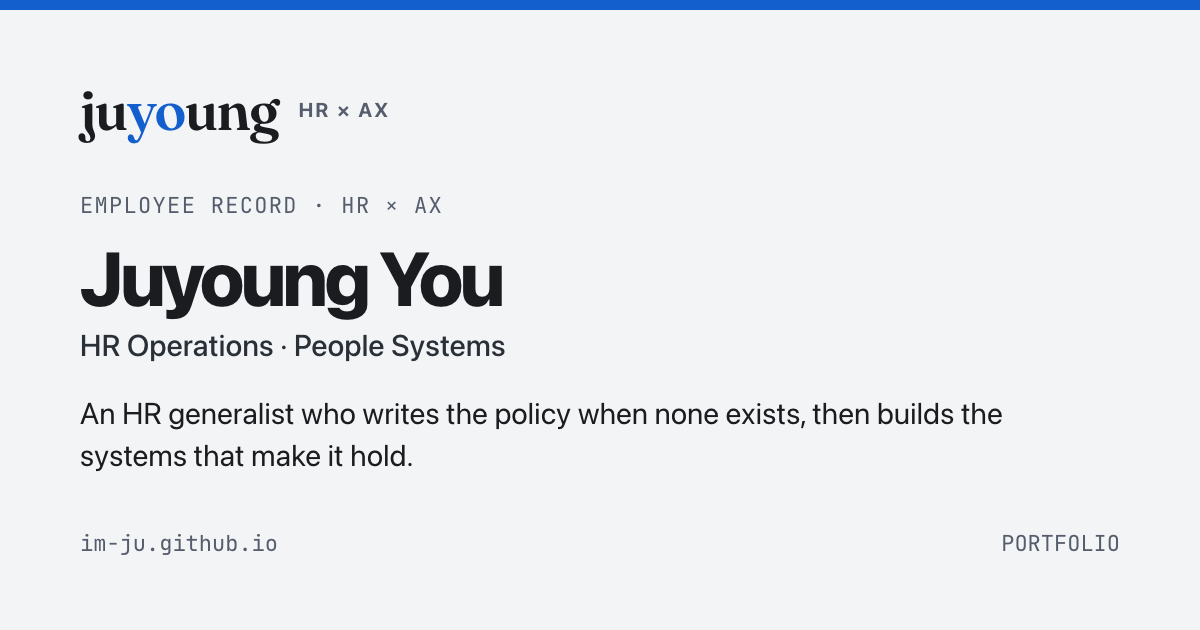
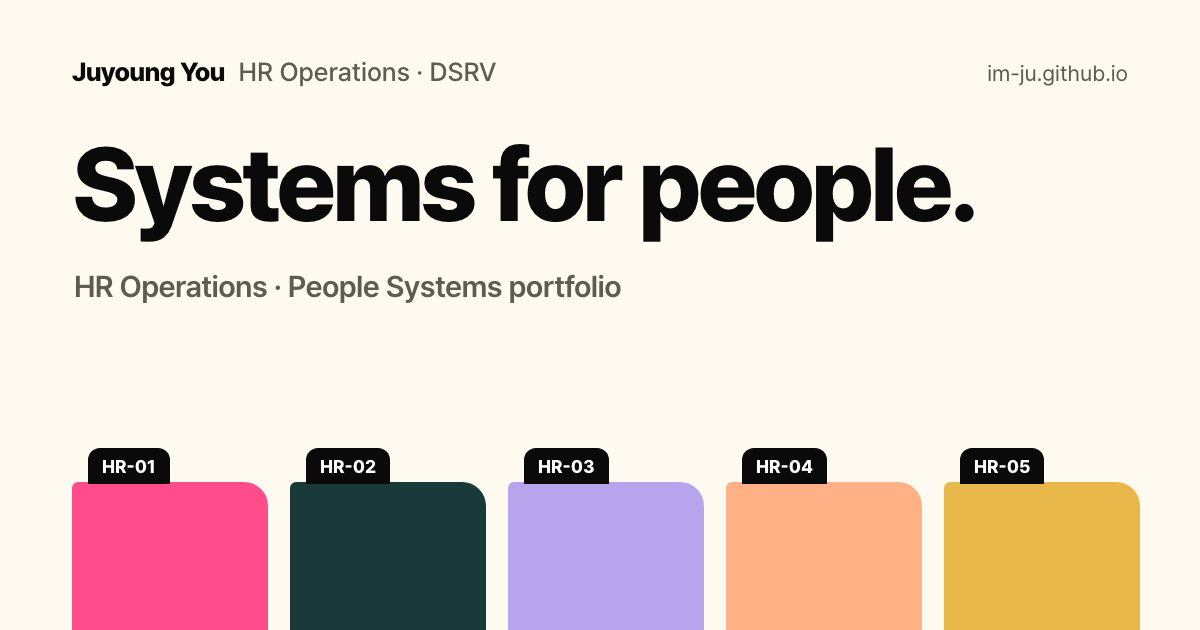
English plain copy, HR/GA Hub mock screen, new link previews
- EN home now has the same plain one-liners, IN/DO/OUT flow and
  problem/solution/result as KO (src/data/cases.ts), plus short principles.
- HR-01 sheet: mock app screen drawn only from the six published features,
  with made-up names and no amounts; labelled as not the real screen.
- Link-preview images redrawn in the new look (Pretendard, clay folders).
- Detail pages: file number/category/status under the title, icon arrows,
  stack in the body face. 404: drop the console label, align to the grid.

diff --git a/src/data/cases.ts b/src/data/cases.ts
@@ -1,20 +1,23 @@
 // Plain-language copy for the home page's case files (HR-01 … HR-08).
 // Kept out of src/content/projects because scripts/import-projects.mjs overwrites those files.
 // Array order = file number on the home page. `id` must match a file name in src/content/projects.
-// Facts here may only restate what the full write-ups already publish (confirmed 2026-10-07).
-// English plain copy is not written yet: /en/ shows titleEn + summaryEn from the content collection.
+// Facts here may only restate what the full write-ups already publish (KO confirmed 2026-10-07;
+// EN follows the wording of src/content/projects-en, added 2026-10-08).
 
-export interface Case {
-  id: string;
+interface Copy {
   title: string;    // ← EDIT: folder headline (plain words)
-  name: string;     // short project name shown on the sheet header
-  cat: string;      // folder category label
-  catEn: string;
   line: string;     // one-line summary (always visible)
   flow: [string, string, string]; // what came in / what it does / what comes out
   problem: string;
   solution: string;
   result: string;
+}
+export interface Case extends Copy {
+  id: string;
+  name: string;     // short project name shown on the sheet header (KO; EN uses titleEn)
+  cat: string;      // category label
+  catEn: string;
+  en: Copy;
 }
 
 export const CASES: Case[] = [
@@ -29,6 +32,14 @@ export const CASES: Case[] = [
     problem: '인사총무 업무가 캘린더, 별도 웹앱, 구글시트, 엑셀 네 곳에 흩어져 있었습니다. 매달 같은 일을 손으로 다시 했고, 숫자가 틀려도 아무도 알아채지 못했습니다.',
     solution: '회사 Google 계정으로 로그인하는 웹앱 하나로 합쳤습니다. 회의실 현황, 사내 이벤트 조 편성, 구성원 디렉토리, 제휴식당, 자기계발비, 근속 알림까지 6개 기능이 들어 있습니다.',
     result: '5개월째 멈춤 없이 운영 중입니다. 사내 앱은 2개에서 1개로 줄었고, 자동 테스트 978개가 모두 통과합니다.',
+    en: {
+      title: "Scattered internal tools, now one",
+      line: "Meeting rooms, company events, the training allowance: tools and spreadsheets that lived in different places are now one web app you sign into with your company account.",
+      flow: ["Calendar · a separate web app · Google Sheets · Excel", "One web app behind the company account", "6 features"],
+      problem: "HR and general-affairs work was spread across four places: a calendar, a separate web app, Google Sheets and Excel. The same work was redone by hand every month, and when a number was wrong, nobody noticed.",
+      solution: "I merged them into one web app that you sign into with your company Google account. It has six features: meeting-room status, team draws for company events, a member directory, partner restaurants, the training allowance and work-anniversary alerts.",
+      result: "In production for five months with no unplanned downtime. Two internal apps became one, and all 978 automated tests pass.",
+    },
   },
   {
     id: 'meal-allowance',
@@ -41,6 +52,14 @@ export const CASES: Case[] = [
     problem: '식대는 먼저 지급하고 나중에 자격을 확인합니다. 식권 사용 내역과 근태 기록을 사람마다, 날짜마다 눈으로 맞추느라 매달 하루에서 이틀이 걸렸고, 한 건을 놓쳐도 드러나지 않았습니다.',
     solution: '복리후생·지출 규정의 지원 요건을 조항 단위로 규칙으로 옮기고 두 데이터를 자동으로 대조합니다. 판정할 수 없는 건은 그냥 통과시키지 않고 별도 확인 목록으로 모읍니다.',
     result: '5개월째 매달 실행 중입니다. 확인은 몇 분, 예외 확인까지 30분 안팎이면 끝납니다. 결과는 실제 급여 차감에 쓰이고, 당사자에게 보여줄 차감 사유 문장까지 만들어집니다.',
+    en: {
+      title: "Meal-allowance checks: from two days to minutes",
+      line: "Matching meal-card usage against attendance records used to be done by eye. Now rules taken from the regulation do the matching automatically.",
+      flow: ["Meal-card usage + attendance records", "Automatic check, clause by clause", "Deduction reasons · manual-review list"],
+      problem: "The meal allowance is paid first and eligibility is checked afterwards. Matching meal-card usage against attendance, person by person and date by date, took one to two days every month, and a single miss never surfaced.",
+      solution: "I turned the eligibility requirements in the benefits and expense regulations into rules, clause by clause, and the two data sets are now compared automatically. Cases the rules cannot decide are not waved through; they go to a separate review list.",
+      result: "Run every month for five months. The check takes minutes, and about 30 minutes including the exceptions. The results feed actual payroll deductions, and each one comes with a sentence explaining the deduction to the person concerned.",
+    },
   },
   {
     id: 'interview-reminder',
@@ -53,6 +72,14 @@ export const CASES: Case[] = [
     problem: '면접 전날 후보자에게 장소, 시간, 준비물을 안내하는 메일을 보냅니다. 면접 유형마다 양식이 다르고, 바쁜 날일수록 빠뜨리기 쉬웠습니다. 빠뜨리면 후보자 경험이 바로 나빠집니다.',
     solution: '매일 아침 공유 캘린더에서 다음 날 면접을 찾아 유형에 맞는 양식으로 Gmail 초안을 만듭니다. 발송은 자동화하지 않았습니다. 한 번 보낸 메일은 되돌릴 수 없기 때문입니다.',
     result: '담당자에게 남은 일은 초안을 확인하고 보내기를 누르는 것뿐입니다. 읽지 못한 일정은 경고로 요약 메일에 올리고, 같은 초안이 두 번 만들어지지 않게 막았습니다.',
+    en: {
+      title: "Interview reminders that never get missed",
+      line: "It finds tomorrow's interviews in the calendar and prepares a reminder draft for each interview type. The send button is left to a person, on purpose.",
+      flow: ["Tomorrow's interviews in the shared calendar", "Identify the type · pick the template", "Gmail draft (a person sends it)"],
+      problem: "The day before an interview, the candidate gets an email with the location, the time and what to bring. Each interview type has its own template, and on busy days it was easy to miss one. A missed email hurts the candidate experience right away.",
+      solution: "Every morning it finds the next day's interviews in the shared calendar and creates a Gmail draft from the right template. Sending is not automated, because an email cannot be taken back once it is sent.",
+      result: "All that is left for the coordinator is to check the draft and press send. Events it cannot read are flagged as warnings in a summary email, and the same draft is never created twice.",
+    },
   },
   {
     id: 'benefits-audit',
@@ -65,6 +92,14 @@ export const CASES: Case[] = [
     problem: '자기계발비는 월·연 한도와 지원 항목이 정해진 제도인데, 운영은 구글시트로 하고 있었습니다. 표끼리 이름과 팀명으로만 이어져 있어서 동명이인이 있거나 팀명이 한 글자만 달라도 숫자가 조용히 틀어졌고, 틀렸는지 아무도 알 수 없었습니다.',
     solution: '시트를 읽기만 하는 감사 도구를 만들었습니다. 규정에서 가져온 8가지 기준(동명이인, 한도 초과, 팀명 불일치, 날짜 오류 등)으로 검사하고, 문제가 있는 행과 이유를 심각도와 함께 별도 탭에 적습니다. 원본은 고치지 않습니다. 여러 사람이 매일 쓰는 문서를 스크립트가 몰래 고치면 아무도 그 시트를 믿을 수 없기 때문입니다.',
     result: '드러난 건 몇 건의 실수가 아니라 시트라는 방식의 한계였습니다. 동명이인 문제는 시트로는 풀 수 없고 사람마다 고유번호가 필요했습니다. 이 진단을 근거로 자기계발비 관리를 사내 웹앱(HR/GA Hub)으로 옮겼습니다.',
+    en: {
+      title: "An audit tool that finds numbers that don't add up",
+      line: "It finds numbers that disagree with each other in a training allowance run on Google Sheets. It never changes a single cell, and its findings became the case for moving to the web app.",
+      flow: ["Training-allowance Google Sheet (3 tables)", "8 regulation-based checks · read-only", "Problem rows · reasons · severity"],
+      problem: "The training allowance has monthly and yearly limits and a fixed list of eligible items, but it was run on Google Sheets. The tables were linked only by names and team names, so two people with the same name, or a team name off by one character, quietly broke the numbers, and nobody could tell.",
+      solution: "I built an audit tool that only reads the sheet. It applies eight checks taken from the regulation (same-name people, limits exceeded, team-name mismatches, unreadable dates and more) and writes each problem row, its reason and its severity to a separate tab. It never edits the source: a script silently fixing a document that many people edit every day would leave nobody able to trust it.",
+      result: "What it exposed was not a handful of mistakes but the limit of the spreadsheet itself. Same-name people cannot be told apart in a sheet; each person needs a unique ID. On the strength of that diagnosis, the training allowance moved into the internal web app (HR/GA Hub).",
+    },
   },
   {
     id: 'access-log',
@@ -77,6 +112,14 @@ export const CASES: Case[] = [
     problem: '근태 시스템은 출근과 퇴근만 기록합니다. 근무 중 장시간 자리를 비운 실태를 알려면 출입문 기록을 봐야 했는데, 그대로 세면 잠깐 나갔다 온 기록, 나간 것처럼 보이지만 실제로는 건물 안에 있던 경우까지 전부 외출로 잡혔습니다. 결과가 특정인을 가리키는 목록이라, 잘못 잡힌 한 건이 곧 한 사람에 대한 근거 없는 의심이 됩니다.',
     solution: '5분 안에 다시 들어온 기록은 지우고 60분이 넘는 외출만 남겼습니다. 남은 건마다 같은 시간에 건물 안 다른 출입문을 지난 기록이 있는지 다시 확인해, 있으면 목록에서 뺐습니다. 몇 분부터 외출로 볼지는 회사가 정할 기준이라, 기준값을 한곳에 모아 실행할 때마다 보여주게 했습니다.',
     result: '2026년 1~3월 석 달 치를 분석해 월별 보고서 3건과 통합 보고서 1건을 냈습니다. 목록 이름은 "위반자 명단"이 아니라 "확인이 필요한 건"으로 붙였습니다. 출입 기록은 이유를 담지 않기 때문에, 도구는 확인할 대상을 좁힐 뿐 판단은 사람이 합니다.',
+    en: {
+      title: "Attendance analysis that doesn't point at the wrong person",
+      line: "The attendance system doesn't record time away during the workday, so I looked at door access logs. Because the output points at specific people, most of the effort went into filtering out false hits.",
+      flow: ["Door access logs (three months)", "Drop short exits · keep 60+ minutes · drop if still inside", "\"Needs checking\" list"],
+      problem: "The attendance system records only clock-in and clock-out. Long absences during the day show up only in the door access logs, but counted as-is they flagged everything: a quick step outside, and even people who looked as if they had left but were still inside the building. The output points at individuals, so one wrong hit is an unfounded suspicion about one person.",
+      solution: "Re-entries within 5 minutes are discarded and only absences over 60 minutes are kept. For each remaining case it checks whether the same person passed another door inside the building during that time, and drops the case if so. How many minutes count as an absence is a company decision, so the thresholds sit in one place and are printed on every run.",
+      result: "It covered three months, January to March 2026, producing three monthly reports and one combined report. The list is titled \"needs checking\", not \"violators\". Access logs carry no reasons, so the tool only narrows down what to check; a person makes the call.",
+    },
   },
   {
     id: 'guide-redesign',
@@ -89,6 +132,14 @@ export const CASES: Case[] = [
     problem: '사내 안내서는 신규 입사자가 처음 여는 문서이자, 모든 구성원이 규정과 사무실 이용법을 찾는 입구입니다. 그런데 8개 섹션 아래 46개 페이지가 평평하게 나열돼 있어 필요한 것을 찾으려면 전부 훑어야 했습니다. 사내 곳곳에서 링크된 문서라, 새로 만들다 주소가 바뀌면 그 링크가 모두 깨집니다.',
     solution: '인터뷰로 요구사항을 좁히고, 성격이 다른 시안 4개를 나란히 놓고 하나를 골랐습니다. 옮기기 전에 원본과 시안을 하나씩 대조하다가, 원본의 46개 항목이 링크가 아니라 페이지 그 자체라는 것을 발견했습니다. 시안을 그대로 붙였다면 46개 페이지가 한 번에 지워졌을 겁니다. 그래서 새 레이아웃만 가져오고 페이지는 원본 그대로 두는 방법으로 바꿨습니다.',
     result: '원본은 한 번도 건드리지 않았습니다. 페이지가 하나라도 지워지는 작업은 실행 자체가 거부되게 설정했고, 가짜 페이지로 만든 작은 리허설에서 이 방법이 통하는 것을 확인했습니다. 주소와 사이드바 구조는 그대로 유지됩니다. 지금은 실제 적용 승인을 기다리고 있습니다.',
+    en: {
+      title: "Catching a migration that would have deleted 46 pages",
+      line: "I redesigned the company handbook every employee opens daily, starting from its structure. I caught in advance that moving it as drafted would delete 46 child pages, and built a migration that never touches the original.",
+      flow: ["8 sections · 46 child pages", "Take only the new layout · keep the original pages", "Non-destructive migration (rehearsal passed)"],
+      problem: "The company handbook is the first document a new hire opens and where everyone looks up rules and office information. But its 46 pages were listed flat under 8 sections, so finding anything meant scanning all of it. It is linked from all over the company, so changing its addresses during a rebuild would break every one of those links.",
+      solution: "I narrowed the requirements through interviews, then compared four different mock-ups side by side and picked one. Checking the original against the mock-up item by item before moving anything, I found that the 46 entries in the original were not links but the pages themselves. Pasting the mock-up in as drafted would have deleted all 46 pages at once, so I switched to taking only the new layout and keeping the original pages in place.",
+      result: "The original was never touched. Any operation that would delete even one page is set to be refused outright, and a small rehearsal with dummy pages confirmed the approach works. Page addresses and the sidebar stay as they are. It is now waiting for approval to apply.",
+    },
   },
   {
     id: 'asset-regulation',
@@ -101,6 +152,14 @@ export const CASES: Case[] = [
     problem: '자산관리 규정은 2023년 11월 이후 그대로였습니다. 퇴사자가 장비를 반납할 때 데이터 삭제와 계정 회수를 확인할 근거 조항이 없었고, 분실·파손 변상 기준은 모호했습니다. "노후 장비"의 기준도 없어 교체 요청이 올 때마다 그때그때 판단했습니다.',
     solution: '규정을 법·세무, 정보보안, 실무 세 관점으로 따로 읽어 고칠 곳을 찾고, 가장 중요한 15건을 반영했습니다. 노후화를 "구매 후 4년"으로 정의하고, 변상금은 급여에서 일방적으로 빼지 않고 별도 합의로만 청구하도록 명시했습니다. 규정 문서는 손으로 편집하지 않고 코드로 만들어, 개정본과 개정 이력이 서로 어긋나지 않게 했습니다.',
     result: '대표이사 승인을 받았습니다. 새 노후화 기준과 경영진이 정한 조건을 자산대장에 적용해 노트북 교체 대상 17명을 우선순위별로 추천했고, 그 과정에서 반납되지 않은 구형 장비도 찾아 함께 보고했습니다.',
+    en: {
+      title: "Rewriting a two-year-old asset regulation",
+      line: "I rewrote the regulation from three angles (legal and tax, information security, day-to-day practice) and got CEO approval. The new obsolescence standard then picked the equipment due for replacement.",
+      flow: ["2023 regulation + asset register", "Three-angle review · 15 changes · obsolescence standard", "Approved regulation · 17 replacement picks"],
+      problem: "The asset management regulation had not changed since November 2023. When a leaver returned equipment, no clause required checking that data was wiped and accounts were revoked, and the rules for compensating loss or damage were vague. There was no definition of \"obsolete equipment\" either, so every replacement request was judged case by case.",
+      solution: "I read the regulation separately from three angles (legal and tax, information security, practice), found what needed fixing and applied the 15 most important items. Obsolescence is now defined as \"four years after purchase\", and compensation is never deducted from pay unilaterally; it can only be claimed by separate agreement. The regulation documents are generated from code rather than edited by hand, so the revised text and the revision history cannot drift apart.",
+      result: "Approved by the CEO. Applying the new obsolescence standard and leadership's criteria to the asset register, I recommended 17 people for laptop replacement in priority order, and reported old equipment that had never been returned along the way.",
+    },
   },
   {
     id: 'skill-intelligence',
@@ -113,6 +172,14 @@ export const CASES: Case[] = [
     problem: '회사가 가진 인력 정보는 직급, 연차, 소속뿐입니다. 정작 알고 싶은 건 "이 사람이 내일 그만두면 무엇이 멈추는가"인데, 누가 무엇을 할 줄 아는지는 어디에도 정리돼 있지 않았습니다. 전 직원에게 스킬을 적어내라고 하면 응답률도 기준도 제각각이라 시작부터 무너집니다.',
     solution: '이미 있는 팀 미션, 직무기술서, 팀 목표(OKR) 문서 29건에서 AI로 스킬을 뽑아 사람과 연결했습니다. 스킬끼리의 관계도 함께 기록해 "A를 할 사람이 없으면 B 업무가 멈추고, B에 기대던 C 보고도 못 한다"처럼 연쇄 영향을 따라갑니다. AI가 뽑은 결과는 본인과 팀장이 확인해 다시 반영하는 단계를 뒀습니다.',
     result: '석 달 뒤 제 보고서를 스스로 다시 검증해, 다시 계산해도 나오지 않는 숫자를 찾아 정정했습니다. 같은 스킬이 다른 이름으로 중복돼 있던 것을 합치자 "한 명만 가진 스킬"이 101개에서 83개로 줄었습니다. 경영진에게는 전면 도입 대신 2~3개 팀의 실제 데이터로 정확도부터 재 보자며 조건부 진행을 권고했습니다.',
+    en: {
+      title: "If someone leaves, what stops?",
+      line: "A proof of concept (PoC) that mapped each employee's skills from existing internal documents alone and traced what stops when one person leaves. All figures are synthetic data.",
+      flow: ["29 team-mission, job-description and OKR documents", "AI skill extraction · match to people · trace knock-on effects", "Attrition-risk report · conditional go"],
+      problem: "All the company holds about its people is grade, tenure and team. What it really wants to know is \"if this person quit tomorrow, what would stop?\", yet who can do what was written down nowhere. Asking every employee to list their skills fails from the start: response rates and standards vary too much.",
+      solution: "Using AI, I pulled skills out of 29 existing documents (team missions, job descriptions and team goals, or OKRs) and linked them to people. Relationships between skills are recorded too, so it can follow knock-on effects such as \"with nobody left who can do A, task B stops, and report C that depends on B cannot be filed\". Each person and their team lead check what the AI extracted, and their answers are fed back in.",
+      result: "Three months later I re-audited my own report, found figures that could not be reproduced, and corrected them. Merging skills that were duplicates under different names cut the \"skills only one person has\" from 101 to 83. Instead of a full rollout, I recommended a conditional go to leadership: measure accuracy first on real data from two or three teams.",
+    },
   },
 ];
 

diff --git a/src/i18n.ts b/src/i18n.ts
@@ -118,7 +118,7 @@ export const t = {
       note: '이 사이트의 모든 수치는 저장소 소스·커밋 이력·산출 리포트 실측 기준입니다. 임직원 실명과 사내 식별자는 제외했습니다.',
       built: '직접 만들었습니다 · Astro · GitHub Pages',
     },
-    detail: { back: '← 작업 파일', period: '기간', status: '상태', stack: '스택', replaced: '대체한 것', next: '다음 파일' },
+    detail: { back: '작업 파일', period: '기간', status: '상태', stack: '스택', replaced: '대체한 것', next: '다음 파일' },
   },
   en: {
     htmlLang: 'en',
@@ -204,11 +204,10 @@ export const t = {
       psr: ['Problem', 'Solution', 'Result'],
       full: 'Read the full write-up',
       principlesTitle: 'Working principles',
-      // EN principles reuse the existing site copy (policy.articles 1–3 below) until plain English copy is written
       principles: [
-        ['Move rules out of memory and into code', 'Meal-allowance eligibility, training budgets and asset lifetimes were all written down, yet interpreted by a person every time. Fix the interpretation in code and judgements become consistent, with one place to change when the rule changes.'],
-        ['Find silent failures and make them loud', 'The real risk was never an error. It was being wrong while looking normal. A missing attendance record shows up as a zero deduction; a parse failure hides behind a "3 drafts created" success message. Each was promoted to an explicit review item or an alert.'],
-        ['Decide the boundary of automation first', 'Interview emails: drafting is automated, sending is human. The audit tool diagnoses and never edits. Access-log analysis narrows what to check and does not judge. Every project started by deciding what not to automate.'],
+        ['Rules move out of memory and into checks.', 'Eligibility rules and limits that each person used to read differently become fixed rules: decisions stay consistent, and a rule change means editing one place.'],
+        ['First, find what is wrong but looks normal.', 'A missing attendance record shows up as a zero deduction; a failed read shows up as a success message. These cases are collected and made visible.'],
+        ['Decide first what not to automate.', 'Interview emails stop at the draft; the audit tool stops at the diagnosis. Anything that cannot be undone is decided by a person at the end.'],
       ],
       recordTitle: 'Employee record',
       photoAlt: 'Portrait of Juyoung You',
@@ -225,6 +224,6 @@ export const t = {
       note: 'Every figure on this site is measured from repository sources, commit history and produced reports. Employee names and internal identifiers are excluded.',
       built: 'Built by hand · Astro · GitHub Pages',
     },
-    detail: { back: '← All files', period: 'Period', status: 'Status', stack: 'Stack', replaced: 'Replaced', next: 'Next file' },
+    detail: { back: 'All files', period: 'Period', status: 'Status', stack: 'Stack', replaced: 'Replaced', next: 'Next file' },
   },
 } as const;
